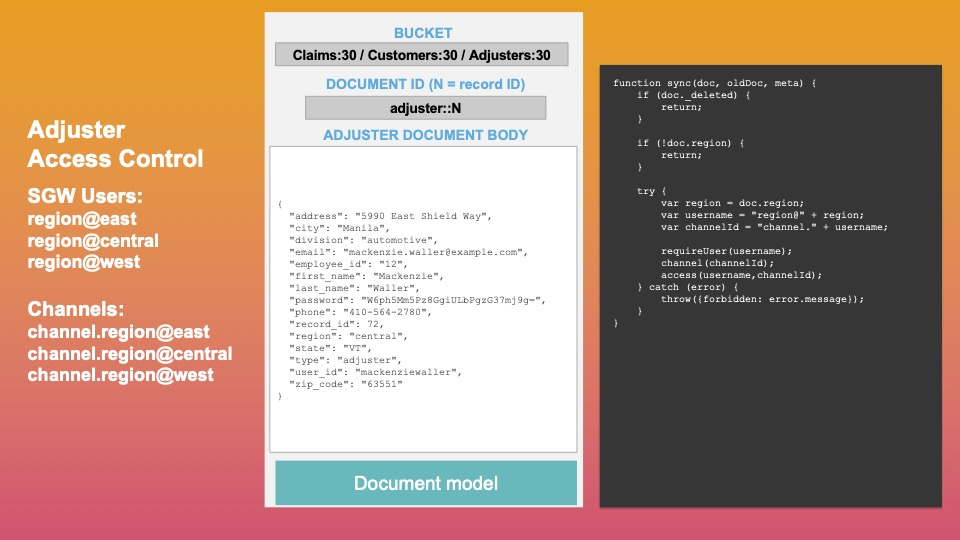
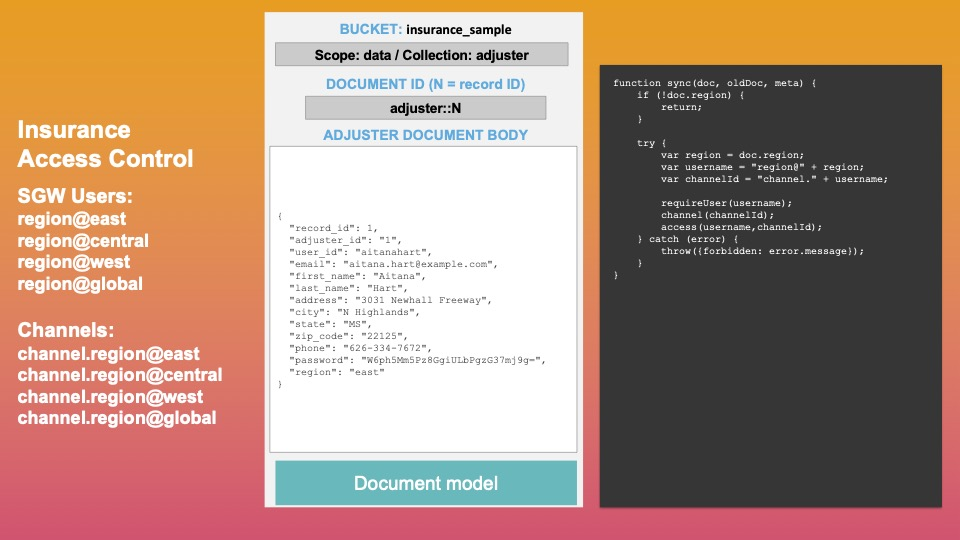
Version 4.0

diff --git a/README.md b/README.md
@@ -1,4 +1,4 @@
-# Couchbase Android Sync Gateway Demo 3.3
+# Couchbase Android Sync Gateway Demo 4.0
 
 Clone into Android Studio.
 
@@ -15,16 +15,16 @@ The password for all users is "password". To reset and start from scratch, use t
 
 ## Backend Container
 
-To run the Sync Gateway, Couchbase Server, and Auth Microservice backend components for the demo use the [mobiledemo](https://hub.docker.com/r/mminichino/mobiledemo) container version 1.0.2. Note: Android Demo 3.x requires a version 1.x backend container.
-You can obtain a [helper utility](https://github.com/mminichino/mobile-demo-container/releases/download/1.0.3/rundemo.sh) to run and manage the container.
+To run the Sync Gateway, Couchbase Server, and Auth Microservice backend components for the demo use the [mobiledemo](https://hub.docker.com/r/mminichino/mobiledemo) container version 2.0.2.
+You can obtain a [helper utility](https://github.com/mminichino/mobile-demo-container/releases/download/2.0.2/rundemo.sh) to run and manage the container.
 Run the following to download the utility:
 ```
-curl -L -O https://github.com/mminichino/mobile-demo-container/releases/download/1.0.3/rundemo.sh
+curl -L -O https://github.com/mminichino/mobile-demo-container/releases/download/2.0.2/rundemo.sh
 ```
 ```
 chmod +x rundemo.sh
 ```
-To build the container yourself, you can access the source here: [mobile-demo-container](https://github.com/mminichino/mobile-demo-container/tree/Version_1.0).
+To build the container yourself, you can access the source here: [mobile-demo-container](https://github.com/mminichino/mobile-demo-container).
 
 ### Notes
 If you run the container on the same system running Android Studio (such as your desktop) use the system's IP address, not localhost (127.0.0.1).
@@ -34,37 +34,55 @@ To look at the documents in the database and their assigned channels, get a shel
 ```
 % ./rundemo.sh --shell
 root@ccb72cf9d6ee:/demo/couchbase# cd sgwcli/
-root@ccb72cf9d6ee:/demo/couchbase/sgwcli# ./sgwcli database dump -h 127.0.0.1 -n employees
-Key: employees:1 Id: employees:1 Channels: ['channel.store_id@1']
-Key: employees:10 Id: employees:10 Channels: ['channel.store_id@1']
-Key: employees:11 Id: employees:11 Channels: ['channel.store_id@2']
-Key: employees:12 Id: employees:12 Channels: ['channel.store_id@2']
-Key: employees:13 Id: employees:13 Channels: ['channel.store_id@2']
-Key: employees:14 Id: employees:14 Channels: ['channel.store_id@2']
-Key: employees:15 Id: employees:15 Channels: ['channel.store_id@2']
-Key: employees:16 Id: employees:16 Channels: ['channel.store_id@2']
-Key: employees:17 Id: employees:17 Channels: ['channel.store_id@2']
-Key: employees:18 Id: employees:18 Channels: ['channel.store_id@2']
-Key: employees:19 Id: employees:19 Channels: ['channel.store_id@2']
-Key: employees:2 Id: employees:2 Channels: ['channel.store_id@1']
-Key: employees:20 Id: employees:20 Channels: ['channel.store_id@2']
-Key: employees:21 Id: employees:21 Channels: ['channel.store_id@3']
-Key: employees:22 Id: employees:22 Channels: ['channel.store_id@3']
-Key: employees:23 Id: employees:23 Channels: ['channel.store_id@3']
-Key: employees:24 Id: employees:24 Channels: ['channel.store_id@3']
-Key: employees:25 Id: employees:25 Channels: ['channel.store_id@3']
-Key: employees:26 Id: employees:26 Channels: ['channel.store_id@3']
-Key: employees:27 Id: employees:27 Channels: ['channel.store_id@3']
-Key: employees:28 Id: employees:28 Channels: ['channel.store_id@3']
-Key: employees:29 Id: employees:29 Channels: ['channel.store_id@3']
-Key: employees:3 Id: employees:3 Channels: ['channel.store_id@1']
-Key: employees:30 Id: employees:30 Channels: ['channel.store_id@3']
-Key: employees:4 Id: employees:4 Channels: ['channel.store_id@1']
-Key: employees:5 Id: employees:5 Channels: ['channel.store_id@1']
-Key: employees:6 Id: employees:6 Channels: ['channel.store_id@1']
-Key: employees:7 Id: employees:7 Channels: ['channel.store_id@1']
-Key: employees:8 Id: employees:8 Channels: ['channel.store_id@1']
-Key: employees:9 Id: employees:9 Channels: ['channel.store_id@1']
+root@ccb72cf9d6ee:/demo/couchbase/sgwcli# ./sgwcli database dump -h 127.0.0.1 -n timecard
+Keyspace timecard.data.employees:
+Key: employees::1 Id: employees::1 Channels: ['channel.location_id@1']
+Key: employees::10 Id: employees::10 Channels: ['channel.location_id@1']
+Key: employees::11 Id: employees::11 Channels: ['channel.location_id@2']
+Key: employees::12 Id: employees::12 Channels: ['channel.location_id@2']
+Key: employees::13 Id: employees::13 Channels: ['channel.location_id@2']
+Key: employees::14 Id: employees::14 Channels: ['channel.location_id@2']
+Key: employees::15 Id: employees::15 Channels: ['channel.location_id@2']
+Key: employees::16 Id: employees::16 Channels: ['channel.location_id@2']
+Key: employees::17 Id: employees::17 Channels: ['channel.location_id@2']
+Key: employees::18 Id: employees::18 Channels: ['channel.location_id@2']
+Key: employees::19 Id: employees::19 Channels: ['channel.location_id@2']
+Key: employees::2 Id: employees::2 Channels: ['channel.location_id@1']
+Key: employees::20 Id: employees::20 Channels: ['channel.location_id@2']
+Key: employees::21 Id: employees::21 Channels: ['channel.location_id@3']
+Key: employees::22 Id: employees::22 Channels: ['channel.location_id@3']
+Key: employees::23 Id: employees::23 Channels: ['channel.location_id@3']
+Key: employees::24 Id: employees::24 Channels: ['channel.location_id@3']
+Key: employees::25 Id: employees::25 Channels: ['channel.location_id@3']
+Key: employees::26 Id: employees::26 Channels: ['channel.location_id@3']
+Key: employees::27 Id: employees::27 Channels: ['channel.location_id@3']
+Key: employees::28 Id: employees::28 Channels: ['channel.location_id@3']
+Key: employees::29 Id: employees::29 Channels: ['channel.location_id@3']
+Key: employees::3 Id: employees::3 Channels: ['channel.location_id@1']
+Key: employees::30 Id: employees::30 Channels: ['channel.location_id@3']
+Key: employees::31 Id: employees::31 Channels: ['channel.location_id@4']
+Key: employees::32 Id: employees::32 Channels: ['channel.location_id@4']
+Key: employees::33 Id: employees::33 Channels: ['channel.location_id@4']
+Key: employees::34 Id: employees::34 Channels: ['channel.location_id@4']
+Key: employees::35 Id: employees::35 Channels: ['channel.location_id@4']
+Key: employees::36 Id: employees::36 Channels: ['channel.location_id@4']
+Key: employees::37 Id: employees::37 Channels: ['channel.location_id@4']
+Key: employees::38 Id: employees::38 Channels: ['channel.location_id@4']
+Key: employees::39 Id: employees::39 Channels: ['channel.location_id@4']
+Key: employees::4 Id: employees::4 Channels: ['channel.location_id@1']
+Key: employees::40 Id: employees::40 Channels: ['channel.location_id@4']
+Key: employees::5 Id: employees::5 Channels: ['channel.location_id@1']
+Key: employees::6 Id: employees::6 Channels: ['channel.location_id@1']
+Key: employees::7 Id: employees::7 Channels: ['channel.location_id@1']
+Key: employees::8 Id: employees::8 Channels: ['channel.location_id@1']
+Key: employees::9 Id: employees::9 Channels: ['channel.location_id@1']
+Keyspace timecard.data.locations:
+Key: locations::1 Id: locations::1 Channels: ['channel.location_id@1']
+Key: locations::2 Id: locations::2 Channels: ['channel.location_id@2']
+Key: locations::3 Id: locations::3 Channels: ['channel.location_id@3']
+Key: locations::4 Id: locations::4 Channels: ['channel.location_id@4']
+Keyspace timecard.data.timecards:
+Key: timecards::5::1::2023-05-22T17:21:40.273 Id: timecards::5::1::2023-05-22T17:21:40.273 Channels: ['channel.location_id@1']
 ```
 
 See [Sync Gateway CLI](https://github.com/mminichino/sgwcli) for details on using this utility.
@@ -75,7 +93,7 @@ The config.properties file contains default values that are imported when the ap
 | sgwhost       | Hostname or IP address for Sync Gateway                        |
 | database      | Database name configured in Sync Gateway                       |
 | authEndpoint  | Hostname or IP address for Auth Microservice                   |
-| demoList      | List of demos (employees,adjuster)                             |
-| tagList       | List of group tags (store_id,region)                           |
-| activeDemo    | Default demo (employees)                                       |
-| groupTagField | Default group ID field (store_id)                              |
+| demoList      | List of demos (timecard,insurance)                             |
+| tagList       | List of group tags (location_id,region)                        |
+| activeDemo    | Default demo (timecard)                                        |
+| groupTagField | Default group ID field (location_id)                           |
